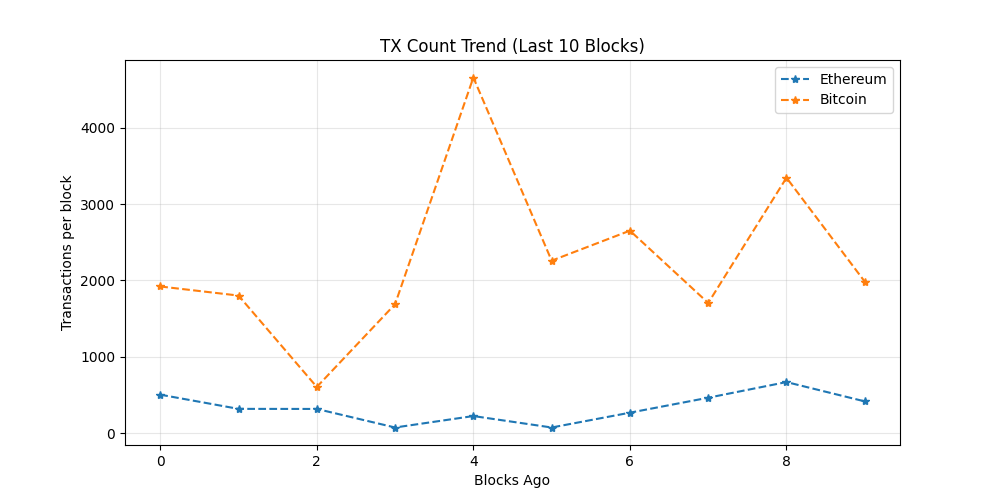
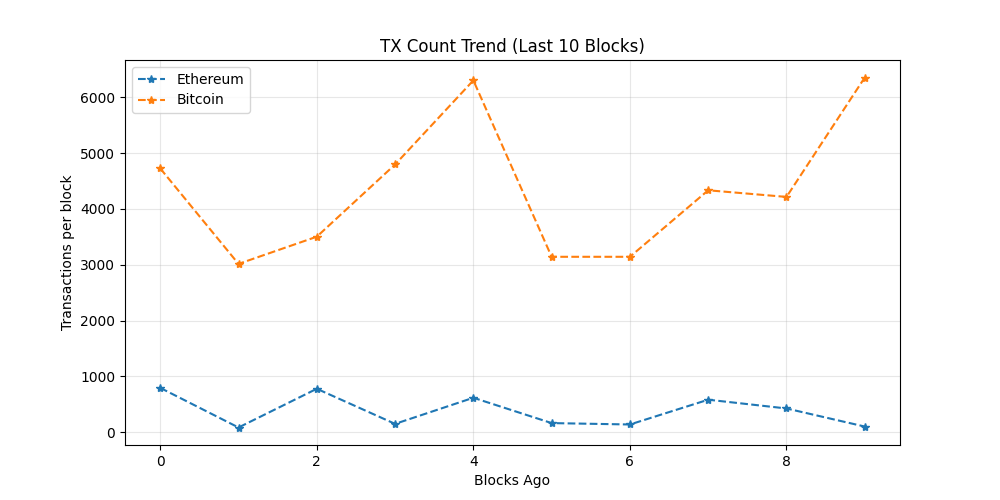
chore: update on-chain dashboard

diff --git a/README.md b/README.md
@@ -19,7 +19,7 @@ The README itself acts as the dashboard and is regenerated automatically on a 6 
 demonstrating a production-style, infrastructure-focused observability workflow rather
 than a traditional UI-driven approach.
 
-_Last updated: 2026-02-16 07:20 UTC_
+_Last updated: 2026-02-16 13:38 UTC_
 
 ## API Usage (GetBlock.io)
 - Calls used: **24**
@@ -27,8 +27,8 @@ _Last updated: 2026-02-16 07:20 UTC_
 ## Network Metrics
 | Chain | Block Height | TX Count | TPS (10 blk avg) | Block Util | Avg Fee |
 |------|-------------|----------|------------------|------------|---------|
-| Ethereum | 24467845 | 416 | 34.67 | 51.49% | 0.0 Gwei |
-| Bitcoin | 936862 | 1984 | 5.7 | 99.79% | N/A |
+| Ethereum | 24469728 | 101 | 8.42 | 41.23% | 0.1 Gwei |
+| Bitcoin | 936906 | 6356 | 0.0 | 99.8% | N/A |
 
 ## Visuals
 ### Transactions Trend
@@ -43,7 +43,9 @@ _Last updated: 2026-02-16 07:20 UTC_
 ## Whale Alerts (latest block)
 - Transaction hashes are truncated for readability.
 - Full hashes are available in `dashboards/metrics.json`
-No whale-sized transfers detected in latest blocks.
+- Bitcoin | 327.02 BTC | `f6869b193005…`
+- Bitcoin | 295.0 BTC | `0762eb34b9d4…`
+- Bitcoin | 310.0 BTC | `a4008520a529…`
 
 ## Run locally
 
